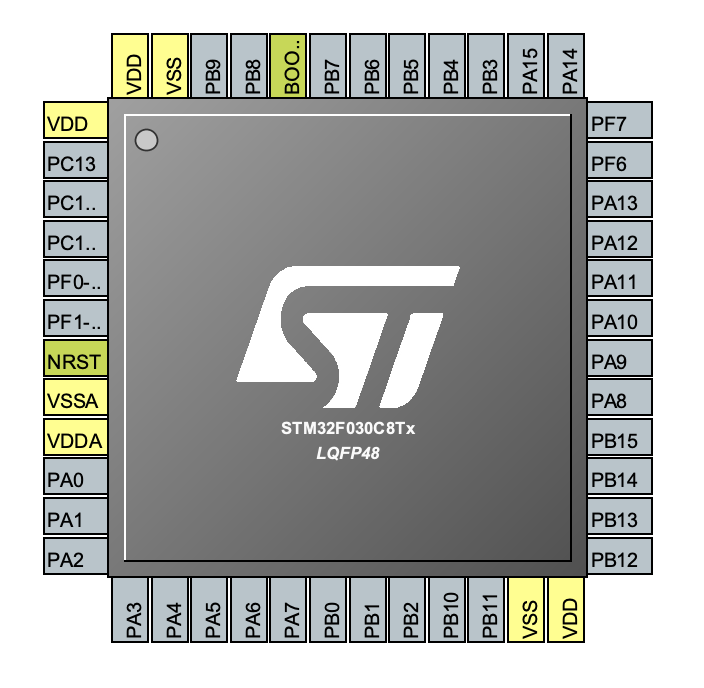
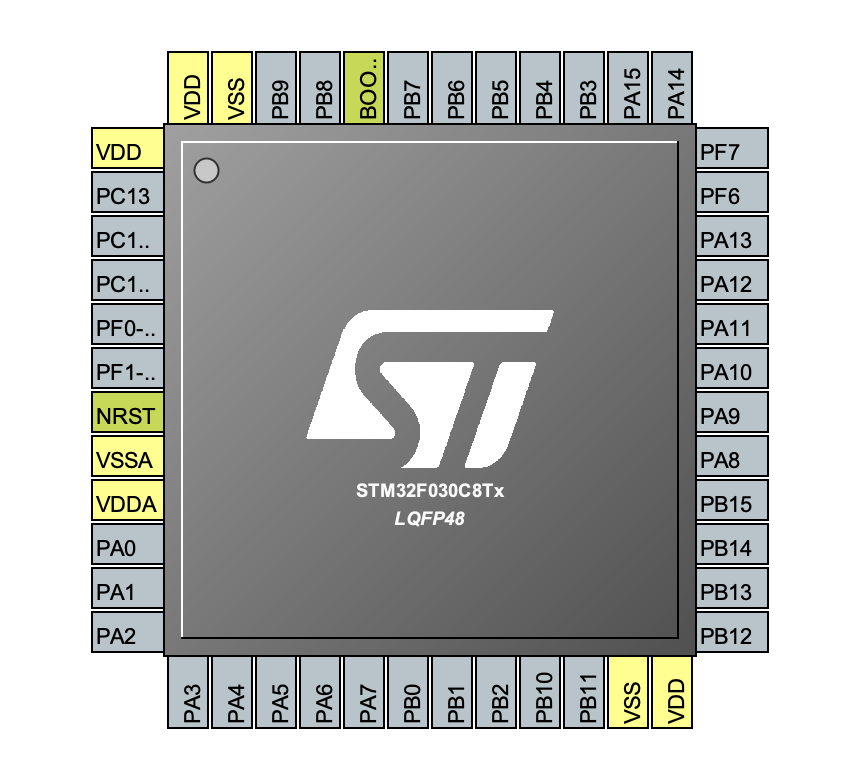
altered the pin configurations and initial discussion of programming

Changed region(s): [[0.0625, 0.0305, 0.9375, 0.9462], [0.3438, 0.3663, 0.6562, 0.702]]

diff --git a/CentralCommand/README.md b/CentralCommand/README.md
@@ -3,7 +3,8 @@
 This is "Getting To Blinky" on an STM32 home-built dev board.
 
 The Central Command is a dev board built as part of a class exercise for the Contextual Electronics
-on-line electronics course.  Central Command is constructed around an STM32F030R8 32-bit ARM MCU.
+on-line electronics course.  Central Command is constructed around an STM32F030R8 32-bit ARM MCU
+with an 8 MHz external crystal.
 The dev board uses an FTDI device for USB communication and has breakouts for all source of wonderful
 I/O.  Programming the Central Command dev board can be accomplished using the 
 ST-LINK/V2-1 hardware debugger/programmer that comes with any of STMicroelectronics NUCLEO
@@ -42,7 +43,6 @@ The pins in green have been changed from their default layout.  A summary of the
 
 |Pin|Default Function |Alternate Function |
 |----|---|---|
-| 2   |  PC13 |     |
 | 5   | PF0 | RCC_OSC_IN |
 | 6   | PF1 | RCC_OSC_OUT |
 | 11 | PA1 | ADC_IN1 |
@@ -50,6 +50,7 @@ The pins in green have been changed from their default layout.  A summary of the
 | 13 | PA3 | USART2_RX (AF1) |
 | 18 | PB0 | ADC_IN8 |
 | 19 | PB1 | ADC_IN9 |
+| 21 | PB10 | User LED |
 | 29 | PA8 | RCC_MCO (AF0) |
 | 30 | PA9 | USART1_TX (AF1) |
 | 31 | PA10 | USART1_RX (AF1) |
@@ -64,7 +65,7 @@ The pins in green have been changed from their default layout.  A summary of the
 | 42 | PB6 | I2C1_SCL (AF1) |
 | 43 | PB7 | I2C1_SDA (AF1) |
 
-Pin 2 still has its default assignment, but has been modified for GPIO output
+Pin 21 still has its default assignment, but has been modified for GPIO output
 (Push Pull output and no pull-up or pull-down resistors).  Note that Pin 2 (PC13)
 has a very limited capability to supply power (3 mA).  Don't use it to drive an LED
 unless a FET is used.
@@ -73,7 +74,34 @@ Pins 35 and 36 are unusual in this package and only have one Alternate Function 
 Pins 5, 6, 11, 18,  and 19 are not being used for Alternate Functions, but rather Additional Functions
 (not my nomenclature, believe me).
 
-## Cube Work
-Yes, the pin configuration discussion was painful, but it's over.
+## Finally
+Yes, the pin configuration discussion was painful, but it's over.  As to flashing an LED, we will use the on-board LED on
+PB10 (pin 21).  The programming details are discussed in the READMEs located in the folders HAL, LL, and CMSIS - the 
+three approaches used for programming.  However, the hardware used for programming is common to all three.
 
+(Note:  cudos to JEELABS, https://jeelabs.org/book/1547a/ for helping me understand all of this.)
+
+Programming is performed using the ST-LINK portion of a NUCLEO board (in this case, a NUCLEO-F030R8).  Once a set of jumpers
+are moved to the appropriate position, the STLINK does not communicate with the NUCLEO board but with the CentralCommand
+connected via a set of header pins.  
+
+Here is a shot of the programming interface on an STM32NUCLEO board (in this case a NUCLEO-F103RB).
+![programmer layout](../CentralCommand/header.png)
+
+To use the ST-LINK programmer for the CentralCommand board, the first thing that must be done is to remove the two
+jumpers shown in the center-left of the image.  To avoid losing the jumpers, they can be turned to the side so that each
+jumper only connects to one pin (i.e. "no jumping").
+
+Jumper wires (or a 6-wire cable) is used to connect the ST-LINK programmer to the CentralCommand.  The programming header
+on the ST-LINK is labeled CN4 and is on the left side of the previous image.  The pins (from top to bottom) are
+1.  VDD-TARGET
+2.  SWCLK
+3.  GND
+4.  SWDIO
+5.  NRST
+6.  SWO
+
+The cable connects to the P301 header on the CentralCommand (shown on both the schematics and the layout images).
+The P301 header is located on the right of the bottom edge of the board.  The pins are labeled on the reverse side of the board.
+Note that Pin 6 isn't connected anything. 
 
